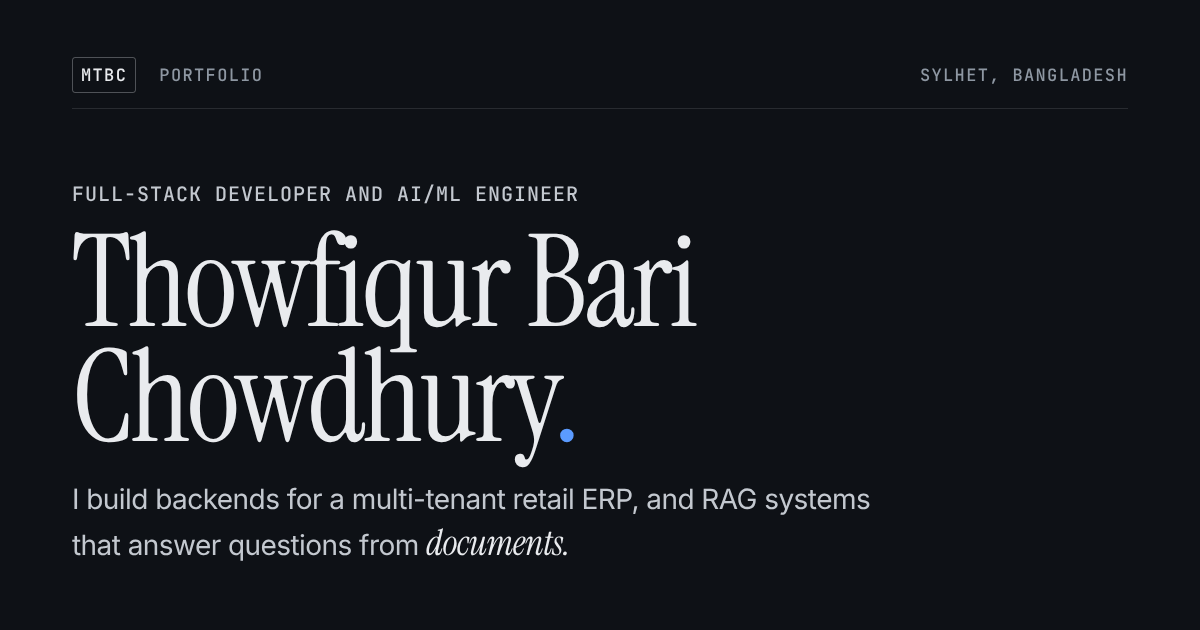
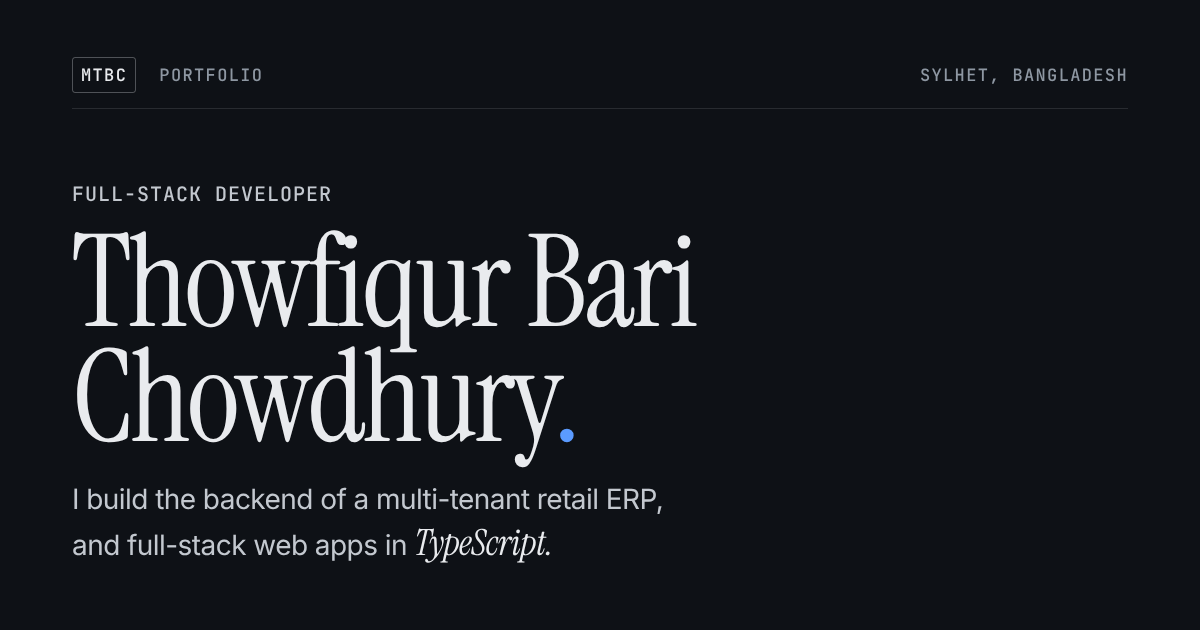
Focus portfolio on full-stack development only
Remove the Research section, AI/ML skill groups, AI-only projects, Kaggle
links and thesis mentions; rewrite hero, About, contact and meta copy for
full-stack roles; split skills into Frontend, Backend, Databases, Tools;
regenerate the Open Graph image.

Changed region(s): [[0.0617, 0.8444, 0.4625, 0.9048], [0.1233, 0.754, 0.74, 0.8143], [0.2775, 0.2714, 0.4933, 0.3317]]

diff --git a/index.html b/index.html
@@ -4,9 +4,9 @@
 <head>
   <meta charset="utf-8">
   <meta name="viewport" content="width=device-width,initial-scale=1">
-  <title>Thowfiqur Bari Chowdhury | Full-Stack Developer and AI/ML Engineer</title>
+  <title>Thowfiqur Bari Chowdhury | Full-Stack Developer</title>
   <meta name="description"
-    content="Thowfiqur Bari Chowdhury (MTBC) builds the backend of a multi-tenant retail ERP at Infinitontech and works on RAG systems, including Bengali NLP. Final-year CSE student at SUST, Sylhet.">
+    content="Thowfiqur Bari Chowdhury (MTBC) is a full-stack developer in Sylhet, Bangladesh. He builds the backend of a multi-tenant retail ERP at Infinitontech and web apps with React, Next.js, NestJS, Express, PostgreSQL and MongoDB.">
   <meta name="author" content="Thowfiqur Bari Chowdhury">
   <meta name="color-scheme" content="dark light">
   <meta name="theme-color" content="#0E1116">
@@ -14,17 +14,17 @@
 
   <meta property="og:type" content="website">
   <meta property="og:site_name" content="Thowfiqur Bari Chowdhury">
-  <meta property="og:title" content="Thowfiqur Bari Chowdhury | Full-Stack Developer and AI/ML Engineer">
+  <meta property="og:title" content="Thowfiqur Bari Chowdhury | Full-Stack Developer">
   <meta property="og:description"
-    content="I build backends for a multi-tenant retail ERP, and RAG systems that answer questions from documents.">
+    content="I build the backend of a multi-tenant retail ERP, and full-stack web apps in TypeScript.">
   <meta property="og:url" content="https://thowfique041.github.io/Portfolio/">
   <meta property="og:image" content="https://thowfique041.github.io/Portfolio/assets/og-image.png">
   <meta property="og:image:width" content="1200">
   <meta property="og:image:height" content="630">
-  <meta property="og:image:alt" content="Thowfiqur Bari Chowdhury, full-stack developer and AI/ML engineer">
+  <meta property="og:image:alt" content="Thowfiqur Bari Chowdhury, full-stack developer">
   <meta name="twitter:card" content="summary_large_image">
-  <meta name="twitter:title" content="Thowfiqur Bari Chowdhury | Full-Stack Developer and AI/ML Engineer">
-  <meta name="twitter:description" content="Backends for a multi-tenant retail ERP, and RAG systems that answer questions from documents.">
+  <meta name="twitter:title" content="Thowfiqur Bari Chowdhury | Full-Stack Developer">
+  <meta name="twitter:description" content="The backend of a multi-tenant retail ERP, and full-stack web apps in TypeScript.">
   <meta name="twitter:image" content="https://thowfique041.github.io/Portfolio/assets/og-image.png">
 
   <link rel="icon" href="favicon.svg" type="image/svg+xml">
@@ -65,8 +65,7 @@
     "address": { "@type": "PostalAddress", "addressLocality": "Sylhet", "addressCountry": "BD" },
     "sameAs": [
       "https://github.com/thowfique041",
-      "https://www.linkedin.com/in/thowfiqur-bary-chowdhury-06b75b339/",
-      "https://www.kaggle.com/thowfiq041"
+      "https://www.linkedin.com/in/thowfiqur-bary-chowdhury-06b75b339/"
     ]
   }
   </script>
@@ -90,7 +89,6 @@
           <li><a href="#experience">Experience</a></li>
           <li><a href="#skills">Skills</a></li>
           <li><a href="#projects">Projects</a></li>
-          <li><a href="#research">Research</a></li>
           <li><a href="#education">Education</a></li>
           <li><a href="#contact">Contact</a></li>
         </ul>
@@ -122,13 +120,12 @@
 
         <div class="hero-grid">
           <div class="hero-main">
-            <p class="hero-role">Full-stack developer and AI/ML engineer</p>
+            <p class="hero-role">Full-stack developer</p>
             <h1 id="hero-name" class="hero-name">
               <span class="name-line">Thowfiqur Bari</span>
               <span class="name-line">Chowdhury<span class="name-dot">.</span></span>
             </h1>
-            <p class="hero-headline">I build backends for a multi-tenant retail ERP, and RAG systems that answer
-              questions from <em>documents.</em></p>
+            <p class="hero-headline">I build the backend of a multi-tenant retail ERP, and full-stack web apps in <em>TypeScript.</em></p>
           </div>
 
           <aside class="hero-side" aria-label="At a glance">
@@ -143,9 +140,8 @@
         </div>
 
         <div class="hero-foot">
-          <p class="hero-intro">Most of my work is TypeScript: React and Next.js on the front, NestJS or Express with
-            PostgreSQL or MongoDB behind it. When a product needs AI, I switch to Python for retrieval pipelines and
-            LLM agents.</p>
+          <p class="hero-intro">React and Next.js on the front, NestJS or Express behind them, PostgreSQL or MongoDB
+            underneath, with Redis for background jobs. When a project calls for Python, I use FastAPI.</p>
           <div class="hero-actions">
             <a class="button button-solid" href="#projects">Explore My Work <span aria-hidden="true">↓</span></a>
             <a class="button button-outline" href="public/Thowfiqur_CV.pdf" download>Download CV</a>
@@ -154,7 +150,6 @@
           <ul class="social-row">
             <li><a href="https://github.com/thowfique041" target="_blank" rel="noopener noreferrer">GitHub <span aria-hidden="true">↗</span></a></li>
             <li><a href="https://www.linkedin.com/in/thowfiqur-bary-chowdhury-06b75b339/" target="_blank" rel="noopener noreferrer">LinkedIn <span aria-hidden="true">↗</span></a></li>
-            <li><a href="https://www.kaggle.com/thowfiq041" target="_blank" rel="noopener noreferrer">Kaggle <span aria-hidden="true">↗</span></a></li>
           </ul>
         </div>
       </div>
@@ -173,11 +168,9 @@
             <p>Most of my time goes into the backend: the database, the API, and whatever runs after a request has
               returned.</p>
             <!-- TODO: one sentence on which kind of backend problem you enjoy most, and why. -->
-            <p>Outside client work I build AI projects, mostly retrieval pipelines and agent workflows with LangChain
-              and LangGraph. The two topics I keep coming back to are Bengali NLP and making language models less
-              likely to make things up.</p>
-            <!-- TODO: one personal story in my own words (how I started programming, a bug or project that changed
-                 how I work, or why Bengali NLP matters to me as a Sylheti speaker). Add it as a third <p>. -->
+            <p>Outside client work I build my own products, like the food delivery platform and the online store
+              further down this page.</p>
+            <!-- TODO: one personal story in my own words (how I started programming, or a bug or project that changed how I work). Add it as a third <p>. -->
             <!-- TODO: assets/me.jpg (photo for this section; add an <img> here once the file exists) -->
           </div>
         </div>
@@ -236,25 +229,26 @@
           <p class="lead reveal">What I reach for, grouped by the kind of work.</p>
           <div class="skills-grid">
             <article class="skill reveal">
-              <h3>Full-stack development</h3>
-              <p>Typed interfaces and APIs, backed by SQL or MongoDB.</p>
+              <h3>Frontend</h3>
+              <p>Typed, responsive interfaces.</p>
               <ul class="plain-list">
-                <li>React</li><li>Next.js</li><li>TypeScript</li><li>JavaScript</li><li>Node.js</li><li>NestJS</li>
-                <li>Express</li><li>FastAPI</li><li>PostgreSQL</li><li>MongoDB</li><li>Redis</li><li>Tailwind CSS</li>
+                <li>React</li><li>Next.js</li><li>TypeScript</li><li>JavaScript</li><li>Redux Toolkit</li>
+                <li>Tailwind CSS</li><li>Vite</li>
               </ul>
             </article>
             <article class="skill reveal">
-              <h3>AI and machine learning</h3>
-              <p>From scikit-learn baselines to deep learning for text and images.</p>
+              <h3>Backend</h3>
+              <p>REST APIs, auth, background jobs, and realtime updates.</p>
               <ul class="plain-list">
-                <li>Python</li><li>Scikit-learn</li><li>PyTorch</li><li>TensorFlow</li><li>Hugging Face</li>
+                <li>Node.js</li><li>NestJS</li><li>Express</li><li>FastAPI</li><li>Python</li><li>JWT</li>
+                <li>Socket.IO</li>
               </ul>
             </article>
             <article class="skill reveal">
-              <h3>Generative and agentic AI</h3>
-              <p>LLM apps that cite their sources, and agents that call tools.</p>
+              <h3>Databases</h3>
+              <p>Relational and document data, plus a cache and job queue.</p>
               <ul class="plain-list">
-                <li>LangChain</li><li>LangGraph</li><li>ChromaDB</li><li>FAISS</li><li>Gemini</li>
+                <li>PostgreSQL</li><li>MongoDB</li><li>Mongoose</li><li>Redis</li><li>Bull</li>
               </ul>
             </article>
             <article class="skill reveal">
@@ -278,16 +272,8 @@
             <h2 id="projects-title">Projects</h2>
           </header>
           <div class="section-body">
-            <div class="filter-row reveal">
-              <div class="project-filter" role="group" aria-label="Filter projects">
-                <button type="button" class="filter-tab" data-filter="all" aria-pressed="true">All <sup>7</sup></button>
-                <button type="button" class="filter-tab" data-filter="fullstack" aria-pressed="false">Full-stack <sup>5</sup></button>
-                <button type="button" class="filter-tab" data-filter="ai" aria-pressed="false">AI / ML <sup>3</sup></button>
-              </div>
-              <a class="link-arrow" href="https://github.com/thowfique041?tab=repositories" target="_blank"
-                rel="noopener noreferrer">All repositories <span aria-hidden="true">↗</span></a>
-            </div>
-            <p class="sr-only" aria-live="polite" data-filter-status></p>
+            <p class="repo-link reveal"><a class="link-arrow" href="https://github.com/thowfique041?tab=repositories"
+                target="_blank" rel="noopener noreferrer">All repositories <span aria-hidden="true">↗</span></a></p>
           </div>
         </div>
 
@@ -386,67 +372,7 @@
               <span class="ir-arrow" aria-hidden="true">↗</span>
             </a>
           </li>
-          <li class="index-row reveal" data-category="ai">
-            <a href="https://github.com/thowfique041/multimodal-pdf-rag" target="_blank" rel="noopener noreferrer">
-              <span class="ir-title">Multimodal PDF RAG</span>
-              <span class="ir-desc">Embeds the text and images of a PDF with CLIP, retrieves through FAISS, and answers with
-                Gemini.</span>
-              <span class="ir-arrow" aria-hidden="true">↗</span>
-            </a>
-          </li>
-          <li class="index-row reveal" data-category="ai">
-            <a href="https://github.com/thowfique041/youtubeChatBot" target="_blank" rel="noopener noreferrer">
-              <span class="ir-title">YouTube Video Chatbot</span>
-              <span class="ir-desc">Streamlit app for asking follow-up questions about a video, answered from its cached
-                transcript.</span>
-              <span class="ir-arrow" aria-hidden="true">↗</span>
-            </a>
-          </li>
         </ul>
-      </div>
-    </section>
-
-    <!-- ============ RESEARCH ============ -->
-    <section class="section" id="research" aria-labelledby="research-title">
-      <div class="shell section-grid">
-        <header class="section-label reveal">
-          <h2 id="research-title">Research</h2>
-        </header>
-        <div class="section-body">
-          <p class="lead reveal">I care most about language models that have to be right, and about how well they work
-            in Bengali.</p>
-
-          <h3 class="mini-head reveal">Interests</h3>
-          <ul class="interest-list reveal">
-            <li><h4>Bengali NLP</h4><p>Bengali has far less data to train on than English, and its dialects vary a
-                lot.</p></li>
-            <li><h4>Large language models</h4><p>Reliability first. I want answers that stay grounded in their sources,
-                and a way to catch a model when it makes something up. My Kaggle work on Bengali hallucination detection
-                is below.</p></li>
-            <li><h4>Retrieval-augmented generation</h4><p>Hybrid and adaptive retrieval, reranking, and grounding. Also
-                the harder part: evaluating the whole pipeline.</p></li>
-            <li><h4>AI security</h4><p>Where LLM and agent systems break under adversarial input, and defenses cheap enough
-                to actually ship.</p></li>
-          </ul>
-
-          <div class="research-split">
-            <div class="reveal">
-              <h3 class="mini-head">Ongoing work</h3>
-              <ul class="entry-list">
-                <li><p class="entry-title">Bengali health-advisory RAG with a hallucination-safety layer</p><p class="entry-meta">Thesis direction, in progress</p><p>Bengali public-health answers grounded in curated sources, with citations and a verification step after generation.</p></li>
-                <li><p class="entry-title">AdaptiveRAG-Agent</p><p class="entry-meta">Exploratory</p><p>Letting an LLM decide when and how to retrieve, which tools to call, and where to route a query, to see whether that beats a fixed RAG pipeline.</p></li>
-              </ul>
-            </div>
-            <div class="reveal">
-              <h3 class="mini-head">Competitions</h3>
-              <ul class="entry-list">
-                <li><p class="entry-title">Bengali Hallucination Detection</p><p class="entry-meta">Kaggle</p><p>Scored 0.803 with an ensemble of fine-tuned BanglaBERT-large, Qwen3-14B as an LLM judge, dense retrieval, and LightGBM stacking on top.</p></li>
-                <li><p class="entry-title">bKash / NSUCEC Datathon</p><p class="entry-meta">Datathon</p><p>A churn-prediction pipeline over more than 75 million transaction rows, using Dask, LightGBM, XGBoost, CatBoost, and Optuna.</p></li>
-                <li><p class="entry-title">Vehicle Detection on Bangladeshi CCTV</p><p class="entry-meta">Kaggle</p><p>YOLO11 detectors for 13 vehicle classes, many of them tiny and badly imbalanced.</p></li>
-              </ul>
-            </div>
-          </div>
-        </div>
       </div>
     </section>
 
@@ -467,7 +393,6 @@
                 <div><dt>CGPA</dt><dd>3.44</dd></div>
                 <div><dt>Expected graduation</dt><dd>2027</dd></div>
               </dl>
-              <p class="edu-note">Thesis: a Bengali health-advisory RAG system (details under Research).</p>
             </div>
           </article>
         </div>
@@ -480,8 +405,7 @@
         <p class="contact-kicker reveal">Contact</p>
         <h2 id="contact-title" class="contact-title reveal">Need a backend built, or hiring? <em>Email me.</em></h2>
         <div class="contact-grid reveal">
-          <p class="contact-lede">I’m open to full-stack and backend roles, freelance web work, AI/ML engineering, and
-            research collaboration. Remote is fine, and so is on-site.</p>
+          <p class="contact-lede">I’m open to full-stack and backend roles, and to freelance web work. Remote is fine, and so is on-site.</p>
           <div>
             <div class="contact-email-row">
               <a class="contact-email" href="mailto:thowfiqurbarrychowdhury@gmail.com">thowfiqurbarrychowdhury@gmail.com</a>
@@ -493,7 +417,6 @@
               <ul class="social-row">
                 <li><a href="https://www.linkedin.com/in/thowfiqur-bary-chowdhury-06b75b339/" target="_blank" rel="noopener noreferrer">LinkedIn <span aria-hidden="true">↗</span></a></li>
                 <li><a href="https://github.com/thowfique041" target="_blank" rel="noopener noreferrer">GitHub <span aria-hidden="true">↗</span></a></li>
-                <li><a href="https://www.kaggle.com/thowfiq041" target="_blank" rel="noopener noreferrer">Kaggle <span aria-hidden="true">↗</span></a></li>
               </ul>
             </div>
           </div>
@@ -505,11 +428,10 @@
   <footer class="site-footer">
     <div class="shell footer-grid">
       <p class="footer-name"><span class="brand-mark" aria-hidden="true">MTBC</span> Thowfiqur Bari Chowdhury</p>
-      <p class="footer-tag">Full-stack developer and AI/ML engineer in Sylhet, Bangladesh</p>
+      <p class="footer-tag">Full-stack developer in Sylhet, Bangladesh</p>
       <nav class="footer-links" aria-label="Footer">
         <a href="https://github.com/thowfique041" target="_blank" rel="noopener noreferrer">GitHub</a>
         <a href="https://www.linkedin.com/in/thowfiqur-bary-chowdhury-06b75b339/" target="_blank" rel="noopener noreferrer">LinkedIn</a>
-        <a href="https://www.kaggle.com/thowfiq041" target="_blank" rel="noopener noreferrer">Kaggle</a>
         <a href="#home">Back to top ↑</a>
       </nav>
       <p class="copyright">© <span data-year>2026</span> Thowfiqur Bari Chowdhury</p>

diff --git a/README.md b/README.md
@@ -1,7 +1,7 @@
 # Thowfiqur Bari Chowdhury — Portfolio
 
-Personal portfolio of **Thowfiqur Bari Chowdhury (MTBC)** — Full-Stack Developer | AI/ML Engineer.
-Production web apps with React, Next.js, NestJS, Express, FastAPI, PostgreSQL and MongoDB, plus RAG, agentic AI and machine-learning work.
+Personal portfolio of **Thowfiqur Bari Chowdhury (MTBC)**, full-stack developer.
+Production web apps with React, Next.js, NestJS, Express, FastAPI, PostgreSQL and MongoDB.
 
 **Live:** [thowfique041.github.io/Portfolio](https://thowfique041.github.io/Portfolio/) · hosted on GitHub Pages
 
@@ -19,7 +19,7 @@ An editorial, typography-led identity — no gradients, glow, glassmorphism or d
 ## Functionality
 
 - Dark / light theme toggle — saved in `localStorage`, follows the OS until the visitor chooses, applied before first paint (no flash).
-- Mobile menu (Esc closes, focus moves into the menu), project filters (All / Full-stack / AI-ML), copy-email button, CV download, profile-photo slot.
+- Mobile menu (Esc closes, focus moves into the menu), copy-email button, CV download, profile-photo slot.
 - No third-party JavaScript and no build step. Works offline / without the font CDN (system fallbacks) and with JavaScript disabled.
 - Semantic landmarks, one `h1`, ordered headings, skip link, visible focus, AA contrast in both themes, ≥ 44 px touch targets.
 - SEO: title, description, canonical, Open Graph + Twitter card (`assets/og-image.png`), JSON-LD `Person`, SVG favicon + Apple touch icon.
@@ -78,7 +78,6 @@ Then check **Settings → Pages**: *Source: Deploy from a branch*, *Branch: `mai
 - Email: [thowfiqurbarrychowdhury@gmail.com](mailto:thowfiqurbarrychowdhury@gmail.com)
 - GitHub: [github.com/thowfique041](https://github.com/thowfique041)
 - LinkedIn: [thowfiqur-bary-chowdhury](https://www.linkedin.com/in/thowfiqur-bary-chowdhury-06b75b339/)
-- Kaggle: [kaggle.com/thowfiq041](https://www.kaggle.com/thowfiq041)
 
 ## License
 
